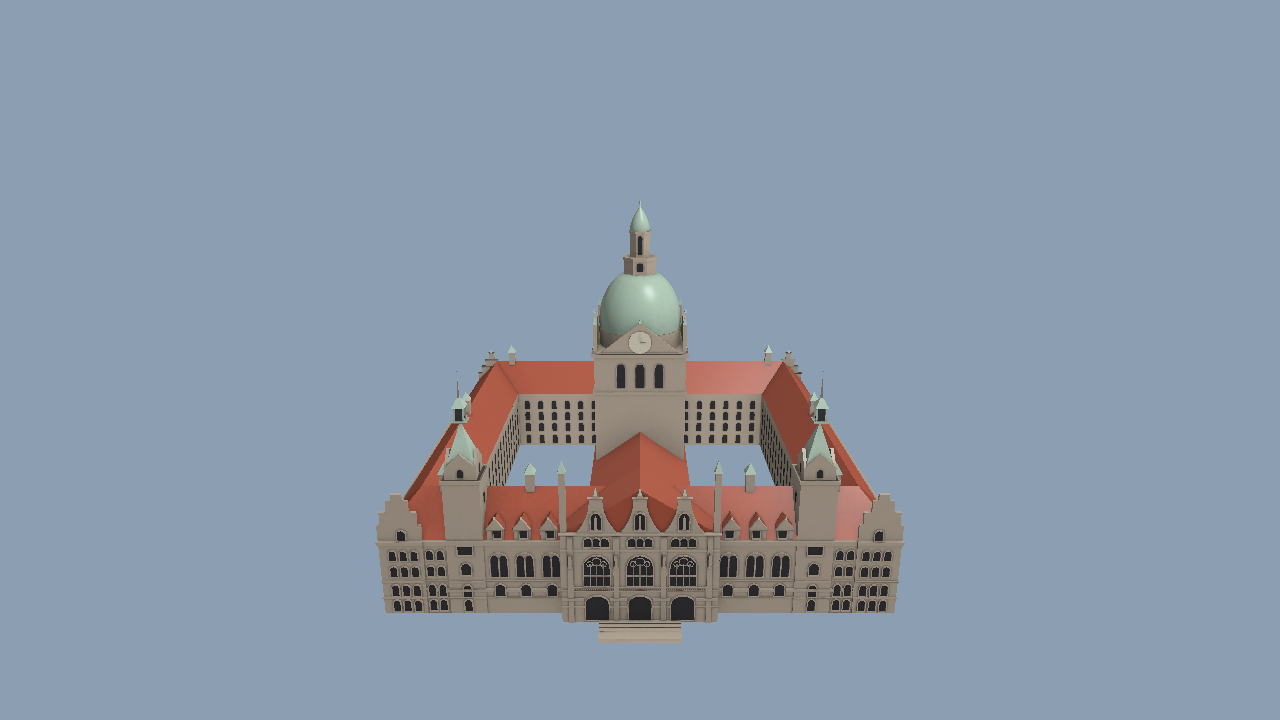
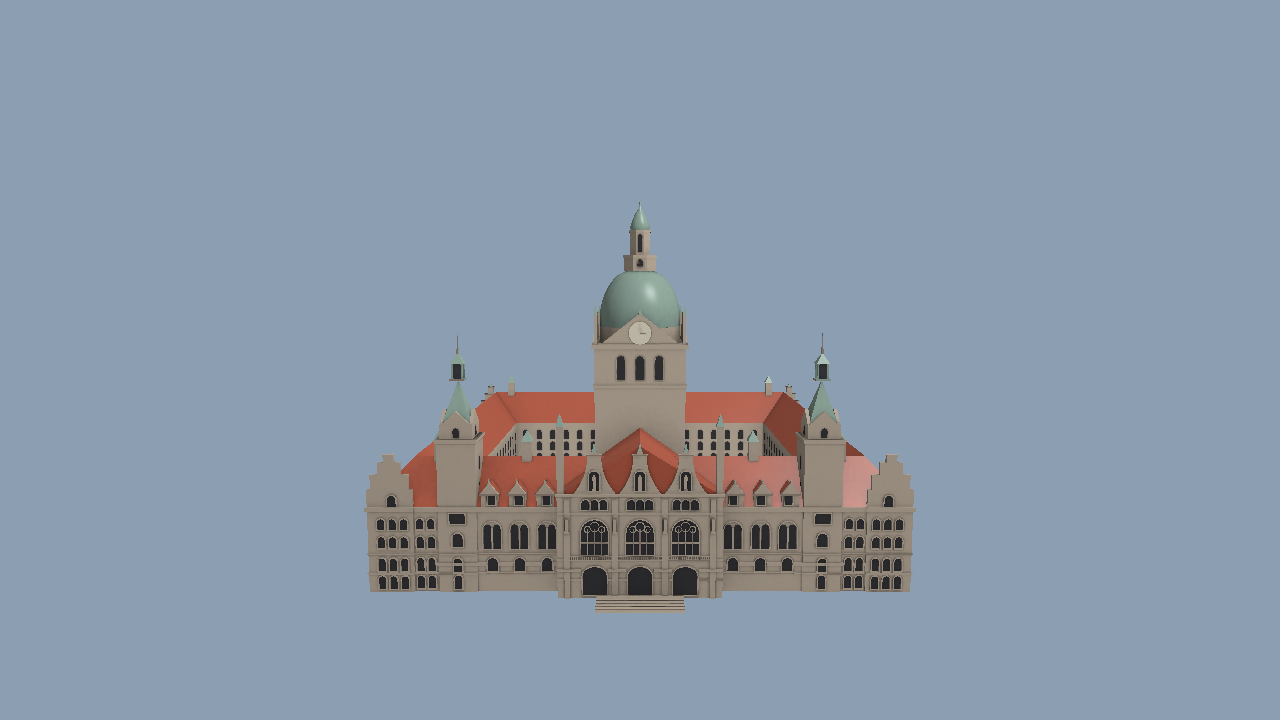
art: Rathaus darker copper after review; viewer --pitch option

Changed region(s): [[0.2812, 0.3667, 0.7188, 0.9167], [0.5, 0.3056, 0.5312, 0.3361]]

diff --git a/tools/asset-viewer/Program.cs b/tools/asset-viewer/Program.cs
@@ -24,6 +24,8 @@ if (args.Length < 2)
 }
 bool interactive = args[1] == "--show";
 string[] views = interactive ? [] : (args.Length > 2 ? args[2] : "game").Split(',', StringSplitOptions.RemoveEmptyEntries);
+int pitchAt = Array.IndexOf(args, "--pitch");
+if (pitchAt > 0) ViewOptions.Pitch = float.Parse(args[pitchAt + 1], System.Globalization.CultureInfo.InvariantCulture);
 var settings = new NativeWindowSettings
 {
     ClientSize = new Vector2i(1280, 720),
@@ -73,7 +75,7 @@ sealed class Viewer(string json, string? outPrefix, string[] views, GameWindowSe
         _focus = (lo + hi) / 2;
         // Clip planes follow the model size: a 130 m building at 1.1x its diagonal lies beyond a fixed 200 m.
         _cam = new Camera(Vector3.UnitZ, _focus) { NearPlane = MathF.Max(0.05f, _size * 0.002f), FarPlane = MathF.Max(200, _size * 6) };
-        if (outPrefix != null) _pitch = 17;
+        if (outPrefix != null) _pitch = ViewOptions.Pitch;   // --pitch <deg>, default 17
     }
 
     protected override void FramebufferResized(int width, int height) => _r.Resize(width, height);
@@ -131,4 +133,10 @@ sealed class Viewer(string json, string? outPrefix, string[] views, GameWindowSe
         _tex.Dispose();
         _r.Dispose();
     }
+}
+
+// Command-line options the window class needs (top-level locals are not visible inside classes).
+static class ViewOptions
+{
+    public static float Pitch = 17f;
 }
